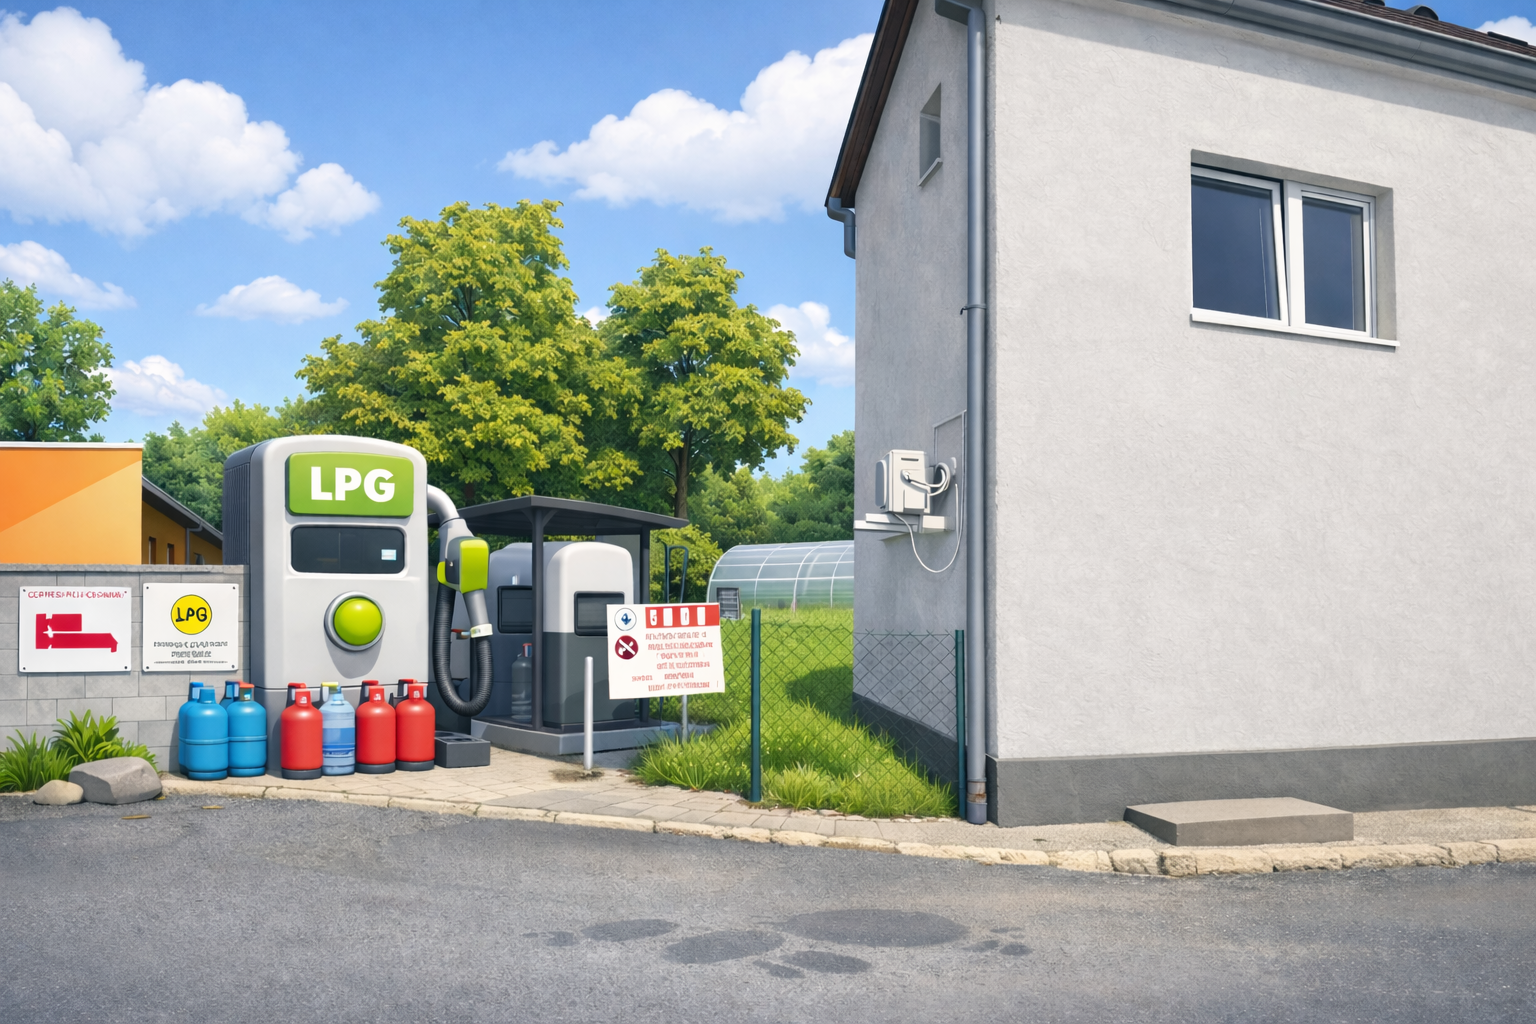
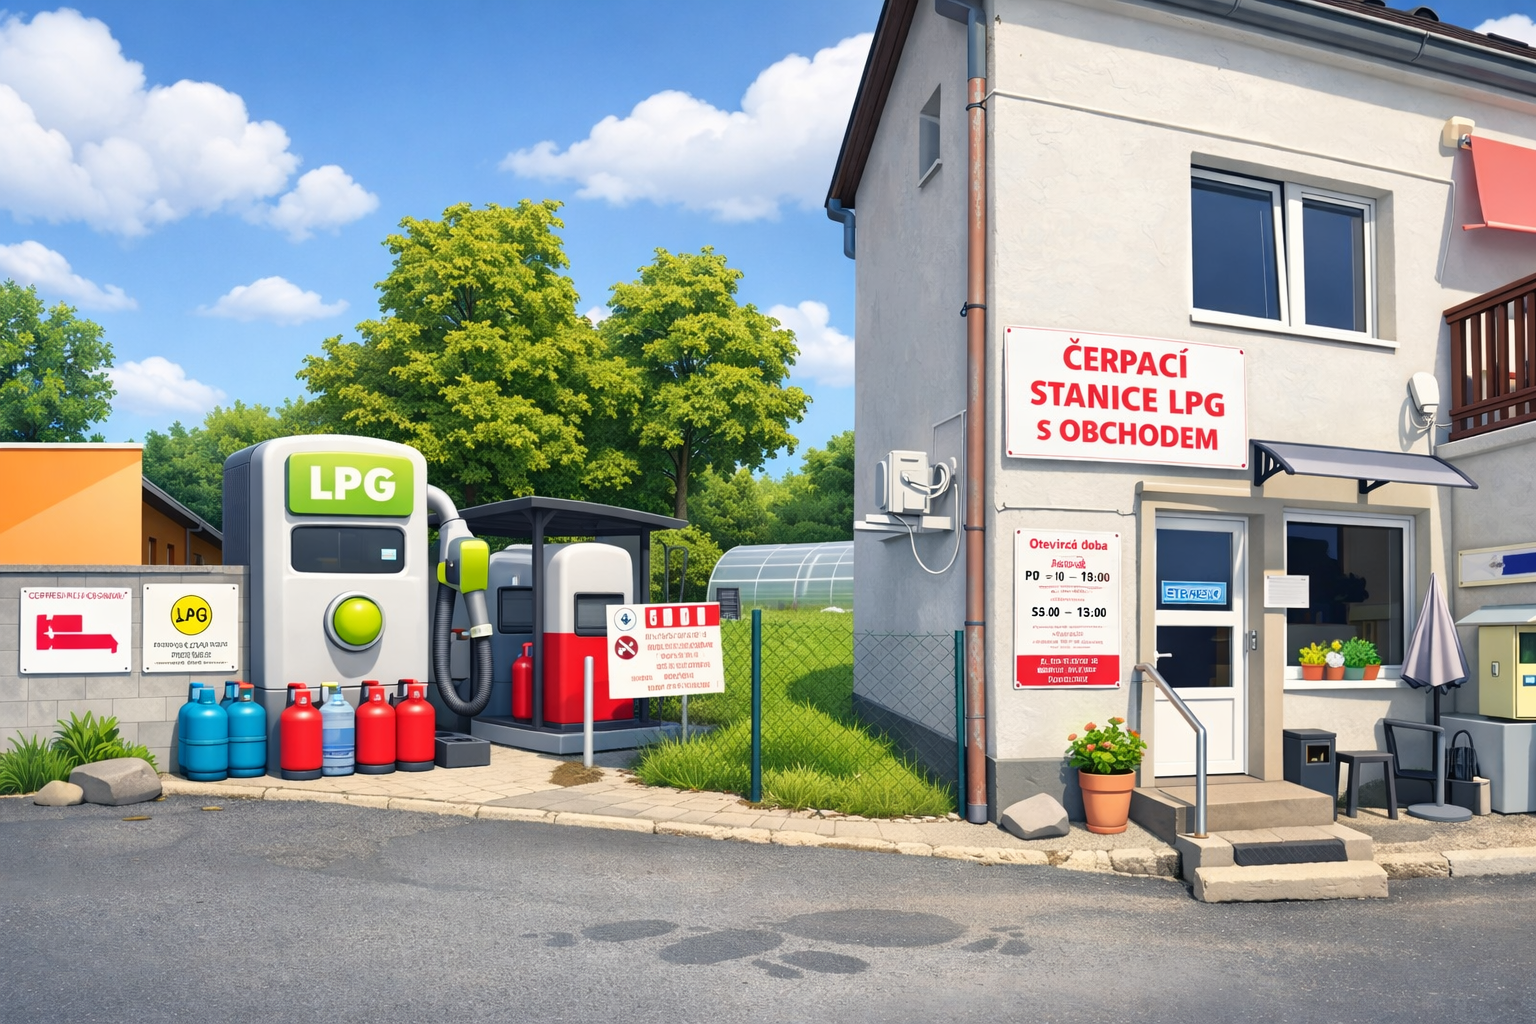
KV: otevřený shop se smíšeným zbožím, aktualizovaný AI render
Made-with: Cursor

diff --git a/src/components/BranchDetail.tsx b/src/components/BranchDetail.tsx
@@ -48,9 +48,14 @@ export function BranchDetail({
               size={96}
             />
           </div>
-          <p className="max-w-2xl text-lg leading-relaxed text-graphite-600">
-            {getSpolecnyPopis(branch)}
-          </p>
+          <div className="max-w-2xl space-y-3">
+            <p className="text-lg leading-relaxed text-graphite-600">
+              {getSpolecnyPopis(branch)}
+            </p>
+            <p className="text-sm text-graphite-500">
+              {branch.shopDescription}
+            </p>
+          </div>
         </div>
 
         <div

diff --git a/src/lib/branches.ts b/src/lib/branches.ts
@@ -139,7 +139,7 @@ export const BRANCHES: Branch[] = [
     ],
     pbBottles: ["2 kg", "5 kg", "10 kg", "33 kg"],
     hasPbFilling: false,
-    shopDescription: "Smíšené zboží – bez prodeje novin.",
+    shopDescription: "Otevřený shop se smíšeným zbožím – bez prodeje novin.",
     galleryImages: [
       `${FOTKY.kv}/104170245_101342534966452_6904228271707863341_n.jpg`,
       `${FOTKY.kv}/104195470_101351054965600_1301063408854676798_n.jpg`,
